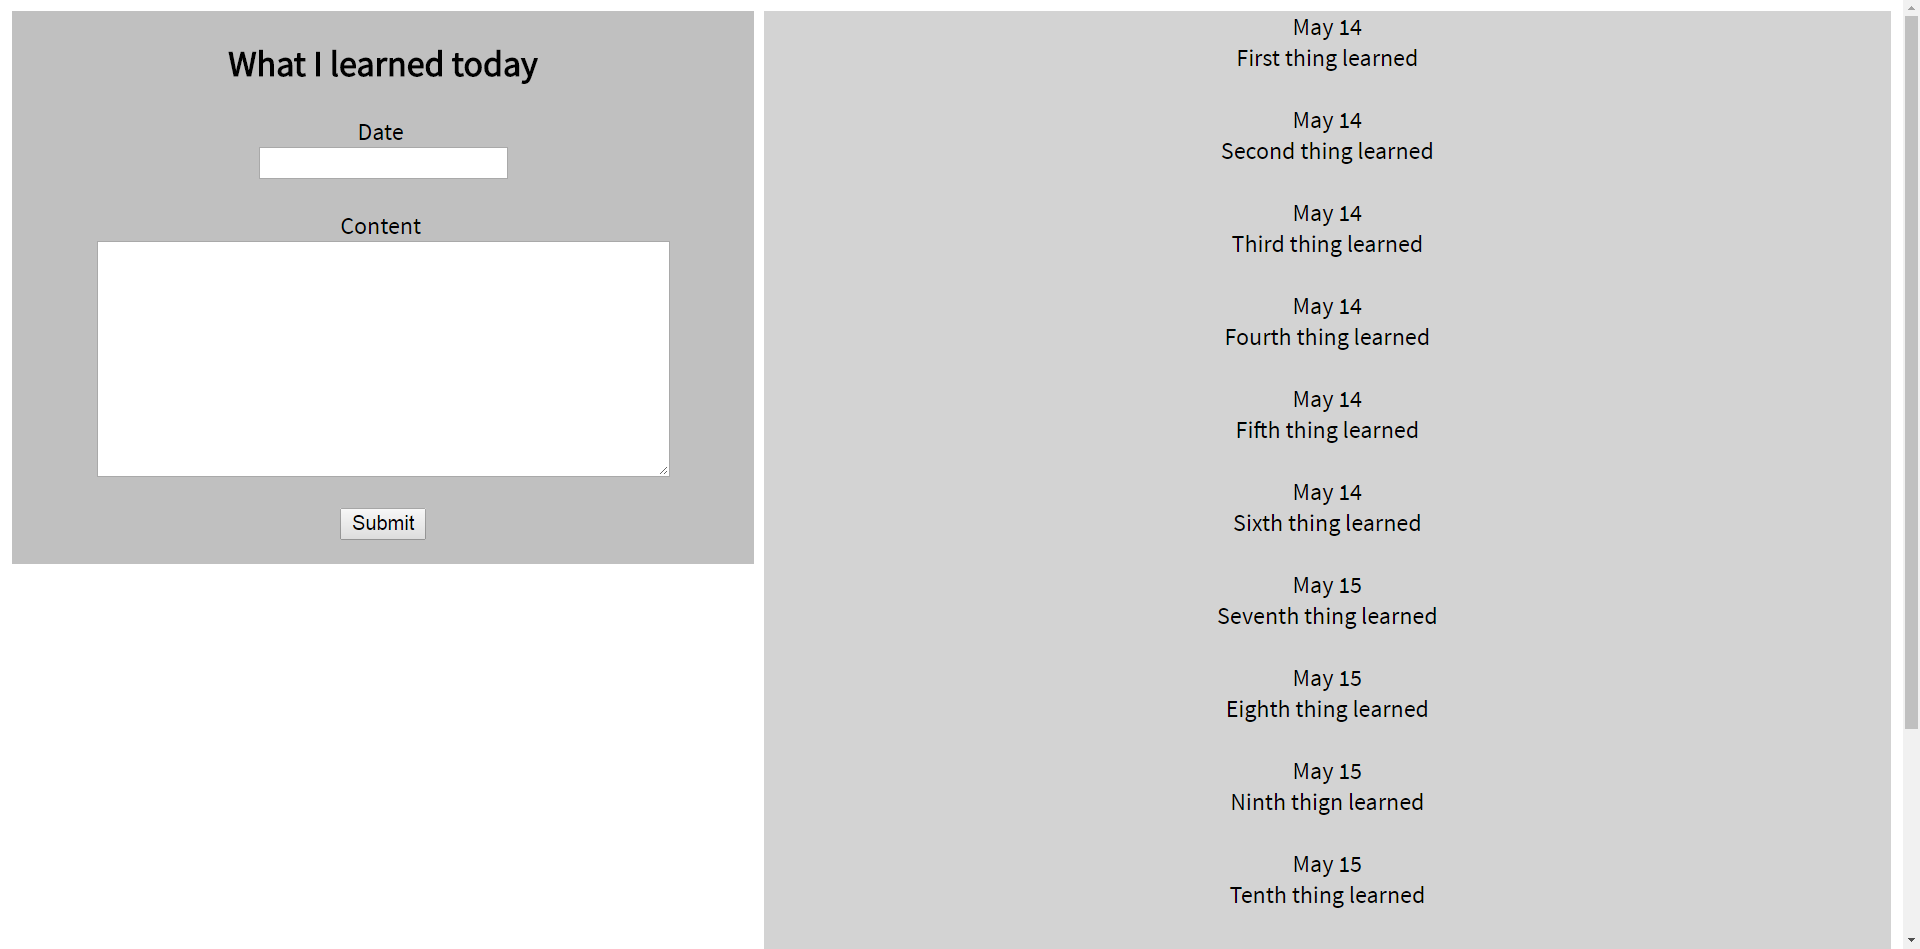
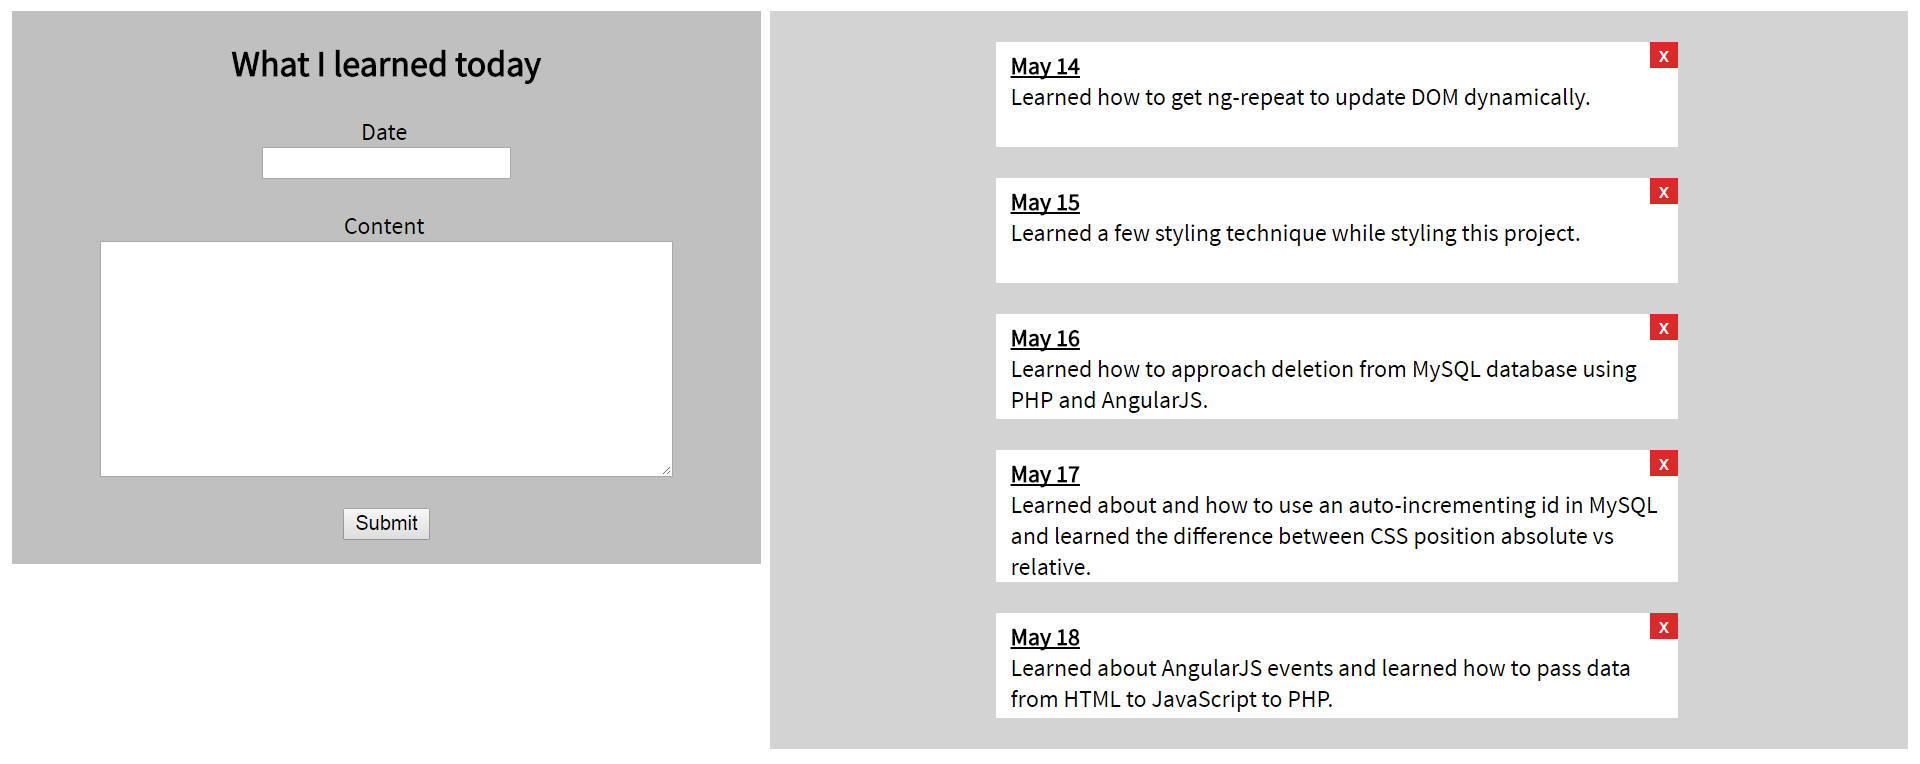
Styled and implemented item deletion

diff --git a/index.html b/index.html
@@ -6,6 +6,7 @@
     <script src="controllers/insertController.js"></script>
     <script src="controllers/fetchController.js"></script>
     <script src="services/result.js"></script>
+    <script src="controllers/deleteController.js"></script>
     </script>
   </head>
 
@@ -29,15 +30,22 @@
 
       <div class="right">
         <center>
-          <div ng-controller="fetchController">
+          <div ng-controller="fetchController"><br>
             <span ng-repeat="item in results">
-              {{item.date}}<br>
-              {{item.content}}<br><br>
+              <div class="card">
+                <div class="theText">
+                  <span class="bold-underline">{{item.date}}</span><br>
+                  {{item.content}}
+                </div>
+                <div ng-controller="deleteController">
+                  <input type="button" class="deleteButton" ng-click="deleteThisItem(item)" value="x">
+                </div>
+              </div>
+              <br><br>
             </span>
           </div>
         </center>
       </div>
-
     </font>
   </body>
 </html>

diff --git a/services/result.js b/services/result.js
@@ -1,10 +1,11 @@
 app.service('resultsService', function() {
   var results = new Array();
 
-  var addItem = function(date, content) {
+  var addItem = function(id, date, content) {
     var obj = new Object();
-    obj["date"] = date;
-    obj["content"] = content;
+    obj['id'] = id;
+    obj['date'] = date;
+    obj['content'] = content;
     results.push(obj);
   }
 
@@ -12,9 +13,18 @@ app.service('resultsService', function() {
     return results;
   }
 
+  var deleteItem = function(id) {
+    for(var i=0; i<results.length; i++) {
+      if(results[i].id === id) {
+        results.splice(i, 1);
+      }
+    }
+  }
+
   return {
     addItem: addItem,
-    getItems: getItems
+    getItems: getItems,
+    deleteItem: deleteItem
   };
 
 });

diff --git a/assets/css/custom.css b/assets/css/custom.css
@@ -11,4 +11,39 @@
   background-color: lightgray;
   height: auto;
   float: right;
+
+}
+
+.card {
+  width: 60%;
+  background-color: white;
+  position: relative;
+  display: inline-block;
+  min-height: 70px;
+  text-align: left!important;
+}
+
+.deleteButton {
+  position: absolute;
+  top: 0;
+  right: 0;
+  cursor: pointer;
+  background-color: #DB2929;
+  color: white;
+  border: none;
+  outline: none;
+}
+
+.deleteButton:hover {
+  opacity: 0.5;
+}
+
+.bold-underline {
+  font-weight: bold;
+  text-decoration: underline;
+}
+
+.theText {
+  margin-left: 10px;
+  margin-top: 5px;
 }

diff --git a/controllers/fetchController.js b/controllers/fetchController.js
@@ -6,9 +6,10 @@ app.controller('fetchController', function ($scope, $http, resultsService) {
     .then(function successCallback(response) {
       size = (response.data).length;
       while(count < size) {
+        var id = response.data[count].id;
         var date = response.data[count].date;
         var content = response.data[count].content;
-        resultsService.addItem(date, content);
+        resultsService.addItem(id, date, content);
         count++;
       }
       size = 0;

diff --git a/controllers/deleteController.js b/controllers/deleteController.js
@@ -1,0 +1,14 @@
+app.controller("deleteController", function($scope, $http, resultsService) {
+  $scope.deleteThisItem = function(item) {
+    $http({
+      method: 'POST',
+      url: 'http://localhost/storestuff/delete.php',
+      data: {'id': item.id},
+      headers: {'Content-Type': 'application/x-www-form-urlencoded'}
+    })
+    .then(function(res) {
+      console.log("Deleted the item successfully!");
+      resultsService.deleteItem(item.id);
+    });
+  }
+});

diff --git a/php/fetch.php b/php/fetch.php
@@ -1,19 +1,20 @@
 <?php
   header('Access-Control-Allow-Origin: *'); // clientside(Node) <-> serverside(PHP)
 
-  $mysqli = new mysqli("localhost", "root", "", "storestuff");
+  $theConnection = new mysqli("localhost", "root", "", "storestuff");
 
-  if($mysqli->connect_error) {
-    printf("Connect failed: %s\n", $mysqli->connect_error);
+  if($theConnection->connect_error) {
+    printf("Connection failed: %s\n", $theConnection->connect_error);
     exit();
   }
 
   $query = "SELECT * FROM thestuff";
   $theData = array();
 
-  if($result = $mysqli->query($query)) {
+  if($result = $theConnection->query($query)) {
     while($row = mysqli_fetch_array($result)) {
       $theData[] = array(
+        'id'=>$row['id'],
         'date'=>$row['date'],
         'content'=>$row['content']);
     }
@@ -23,5 +24,5 @@
   else {
     echo "0 results.";
   }
-  $mysqli->close(); // Close the connection
+  $theConnection->close(); // Close the connection
 ?>

diff --git a/php/delete.php b/php/delete.php
@@ -1,0 +1,19 @@
+<?php
+  header('Access-Control-Allow-Origin: *');
+
+  $theConnection = new mysqli("localhost", "root", "", "storestuff");
+
+  if($theConnection->connect_error) {
+    printf("Connection failed: %s\n", $theConnection->connect_error);
+    exit();
+  }
+
+  $theData = json_decode(file_get_contents('php://input'));
+  $the_id = mysqli_real_escape_string($theConnection, $theData->id);
+  echo $the_id;
+
+  $query = "DELETE FROM thestuff WHERE id=$the_id";
+  mysqli_query($theConnection, $query);
+
+  $theConnection->close();
+?>

diff --git a/php/insert.php b/php/insert.php
@@ -11,7 +11,8 @@
   $date = mysqli_real_escape_string($theConnection, $theData->date);
   $content = mysqli_real_escape_string($theConnection, $theData->content);
 
-  mysqli_query($theConnection, "INSERT INTO thestuff(date, content) VALUES('$date', '$content')");
+  $query = "INSERT INTO thestuff(date, content) VALUES('$date', '$content')";
+  mysqli_query($theConnection, $query);
 
   mysqli_close($theConnection);
 
